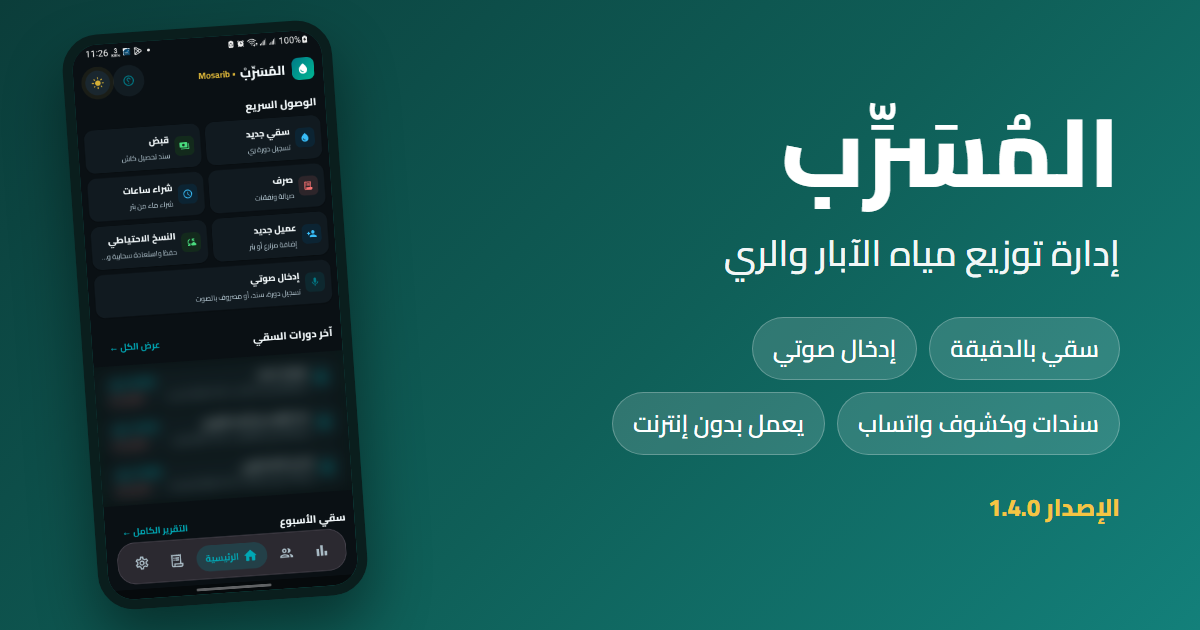
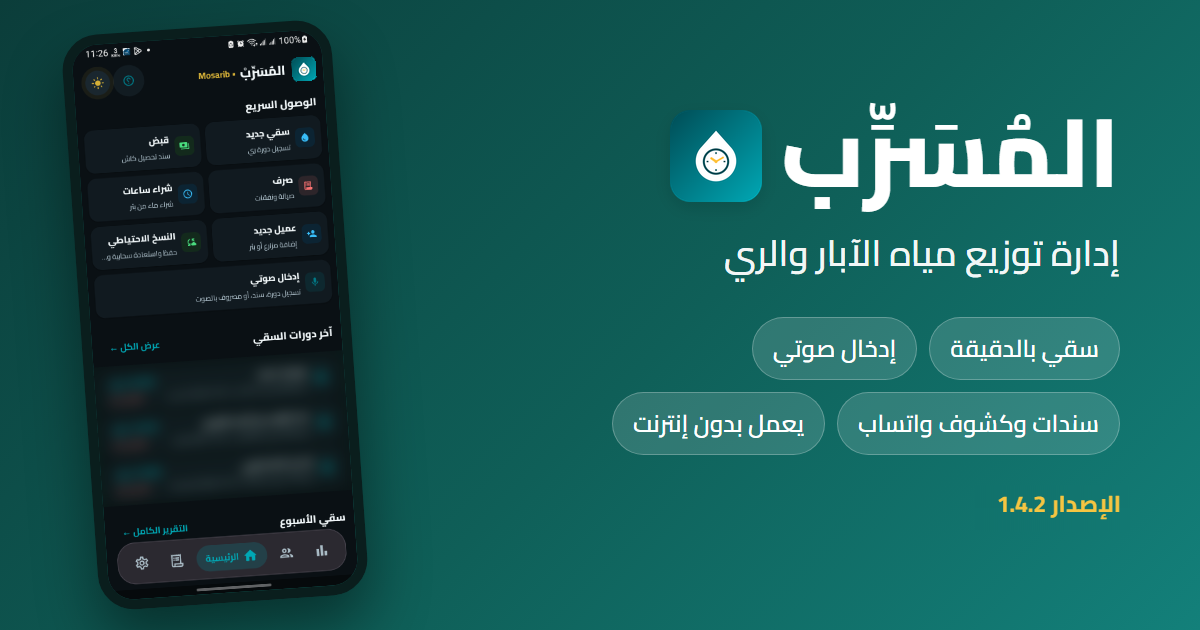
chore(portal): share image with the new app mark and version 1.4.2

Changed region(s): [[0.555, 0.1508, 0.6475, 0.3317], [0.8017, 0.7841, 0.9558, 0.8444], [0.2467, 0.0905, 0.2775, 0.1508]]

diff --git a/web_dashboard/index.php b/web_dashboard/index.php
@@ -195,14 +195,14 @@ $canonicalUrl = (isset($_SERVER['HTTPS']) && $_SERVER['HTTPS'] === 'on' ? 'https
   <meta property="og:locale" content="ar_AR">
   <meta property="og:title" content="<?= htmlspecialchars($ps['hero_title']) ?> • البوابة الرسمية">
   <meta property="og:description" content="<?= htmlspecialchars($ps['hero_subtitle']) ?>">
-  <meta property="og:image" content="https://mosarib.tubbasoft.com/assets/images/og_share.png?v=140">
+  <meta property="og:image" content="https://mosarib.tubbasoft.com/assets/images/og_share.png?v=142">
   <meta property="og:image:width" content="1200">
   <meta property="og:image:height" content="630">
 
   <meta name="twitter:card" content="summary_large_image">
   <meta name="twitter:title" content="<?= htmlspecialchars($ps['hero_title']) ?> • البوابة الرسمية">
   <meta name="twitter:description" content="<?= htmlspecialchars($ps['hero_subtitle']) ?>">
-  <meta name="twitter:image" content="https://mosarib.tubbasoft.com/assets/images/og_share.png?v=140">
+  <meta name="twitter:image" content="https://mosarib.tubbasoft.com/assets/images/og_share.png?v=142">
 
   <link rel="icon" type="image/png" href="assets/images/app_icon.png?v=142">
   <link rel="apple-touch-icon" href="assets/images/app_icon.png?v=142">
